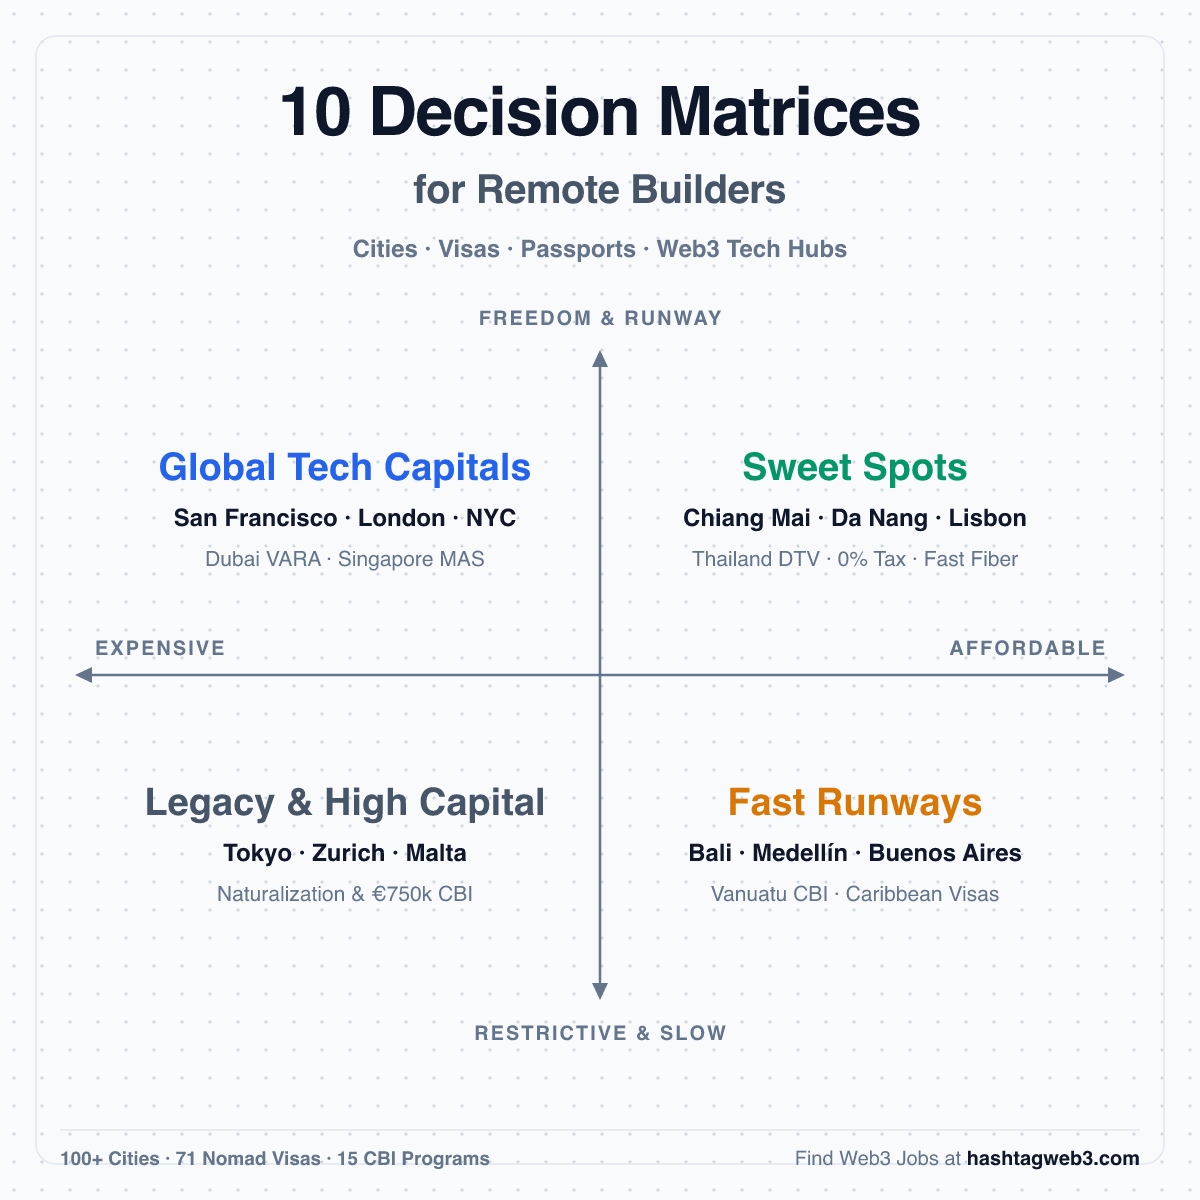
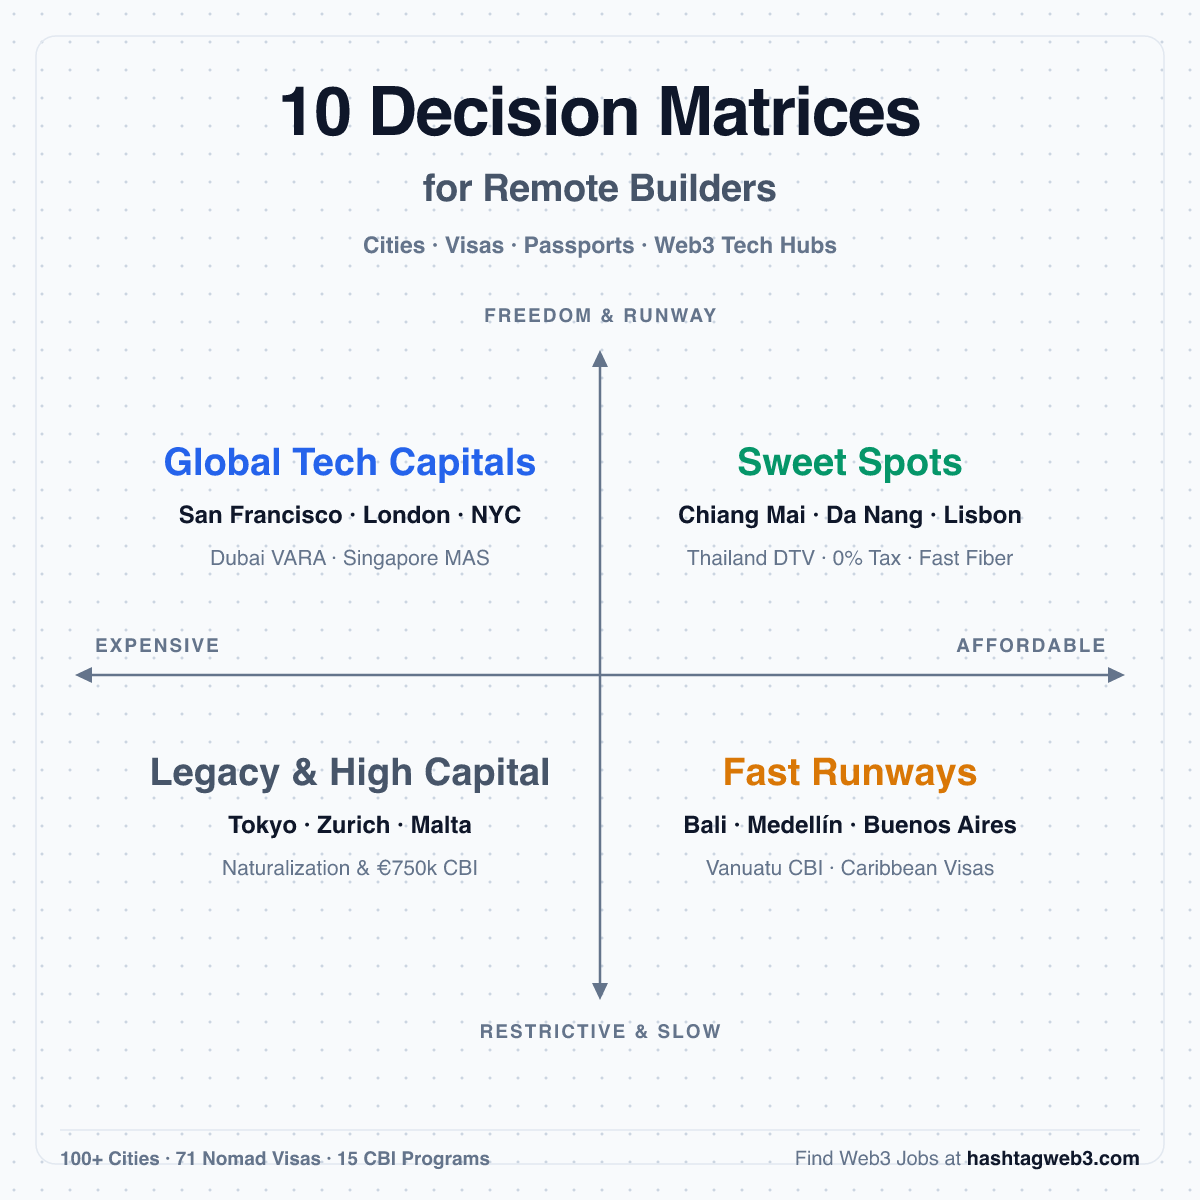
style(social): refine spacing symmetry and padding across cover and outro cards

diff --git a/scripts/generate-thread-cover-outro.ts b/scripts/generate-thread-cover-outro.ts
@@ -9,7 +9,7 @@ const ROOT = path.resolve(__dirname, '..');
 const OUT_DIR = path.join(ROOT, 'public/images/social');
 const ARTIFACT_DIR = '/Users/vedang/.gemini/antigravity/brain/d8e0523d-8c6b-4440-8112-6fd00000dadf';
 
-// 1. Minimal Cover with Big, Highly-Legible Typography
+// 1. Minimal Cover with Perfectly Balanced Spacing & Big Typography
 function buildCoverSvg(): string {
   return `<svg width="1200" height="1200" viewBox="0 0 1200 1200" xmlns="http://www.w3.org/2000/svg" style="background:#F8FAFC; font-family:system-ui,-apple-system,'SF Pro Display','Segoe UI',Roboto,Helvetica,sans-serif;">
   <defs>
@@ -23,14 +23,14 @@ function buildCoverSvg(): string {
   <rect width="1200" height="1200" fill="url(#dotGridCover)" />
   <rect x="36" y="36" width="1128" height="1128" rx="20" fill="none" stroke="#E2E8F0" stroke-width="1.5" />
 
-  <!-- Title Section (Big, Bold, Legible) -->
+  <!-- Title Section (Balanced Leading) -->
   <g transform="translate(600, 135)">
     <text x="0" y="0" text-anchor="middle" font-size="68" font-weight="900" fill="#0F172A" letter-spacing="-1.5px">10 Decision Matrices</text>
-    <text x="0" y="68" text-anchor="middle" font-size="40" font-weight="800" fill="#475569" letter-spacing="-0.5px">for Remote Builders</text>
-    <text x="0" y="122" text-anchor="middle" font-size="24" font-weight="600" fill="#64748B">Cities · Visas · Passports · Web3 Tech Hubs</text>
+    <text x="0" y="66" text-anchor="middle" font-size="38" font-weight="800" fill="#475569" letter-spacing="-0.5px">for Remote Builders</text>
+    <text x="0" y="118" text-anchor="middle" font-size="23" font-weight="600" fill="#64748B">Cities · Visas · Passports · Web3 Tech Hubs</text>
   </g>
 
-  <!-- 2x2 Crosshairs -->
+  <!-- 2x2 Crosshairs (Balanced Geometry) -->
   <line x1="90" y1="675" x2="1110" y2="675" stroke="#64748B" stroke-width="2.5" />
   <polygon points="75,675 92,667 92,683" fill="#64748B" />
   <polygon points="1125,675 1108,667 1108,683" fill="#64748B" />
@@ -39,49 +39,49 @@ function buildCoverSvg(): string {
   <polygon points="600,350 592,367 608,367" fill="#64748B" />
   <polygon points="600,1000 592,983 608,983" fill="#64748B" />
 
-  <!-- Axis Direction Labels (Bigger & Bolder) -->
-  <text x="600" y="325" text-anchor="middle" font-size="20" font-weight="800" fill="#64748B" letter-spacing="2px">FREEDOM &amp; RUNWAY</text>
-  <text x="600" y="1040" text-anchor="middle" font-size="20" font-weight="800" fill="#64748B" letter-spacing="2px">RESTRICTIVE &amp; SLOW</text>
-  <text x="95" y="655" text-anchor="start" font-size="20" font-weight="800" fill="#64748B" letter-spacing="2px">EXPENSIVE</text>
-  <text x="1105" y="655" text-anchor="end" font-size="20" font-weight="800" fill="#64748B" letter-spacing="2px">AFFORDABLE</text>
+  <!-- Axis Direction Labels (Spaced from arrows and borders) -->
+  <text x="600" y="322" text-anchor="middle" font-size="19" font-weight="800" fill="#64748B" letter-spacing="2px">FREEDOM &amp; RUNWAY</text>
+  <text x="600" y="1038" text-anchor="middle" font-size="19" font-weight="800" fill="#64748B" letter-spacing="2px">RESTRICTIVE &amp; SLOW</text>
+  <text x="95" y="652" text-anchor="start" font-size="19" font-weight="800" fill="#64748B" letter-spacing="2px">EXPENSIVE</text>
+  <text x="1105" y="652" text-anchor="end" font-size="19" font-weight="800" fill="#64748B" letter-spacing="2px">AFFORDABLE</text>
 
-  <!-- 4 Quadrants (Large, High-Contrast Typography) -->
-  <!-- Top Right -->
-  <g transform="translate(855, 480)">
+  <!-- 4 Quadrants (Vertically and Horizontally Symmetrical) -->
+  <!-- Top Right (Sweet Spots) -->
+  <g transform="translate(850, 475)">
     <text x="0" y="0" text-anchor="middle" font-size="38" font-weight="900" fill="#059669">Sweet Spots</text>
-    <text x="0" y="46" text-anchor="middle" font-size="24" font-weight="700" fill="#0F172A">Chiang Mai · Da Nang · Lisbon</text>
-    <text x="0" y="86" text-anchor="middle" font-size="21" font-weight="500" fill="#64748B">Thailand DTV · 0% Tax · Fast Fiber</text>
+    <text x="0" y="48" text-anchor="middle" font-size="24" font-weight="700" fill="#0F172A">Chiang Mai · Da Nang · Lisbon</text>
+    <text x="0" y="90" text-anchor="middle" font-size="21" font-weight="500" fill="#64748B">Thailand DTV · 0% Tax · Fast Fiber</text>
   </g>
 
-  <!-- Top Left -->
-  <g transform="translate(345, 480)">
+  <!-- Top Left (Global Tech Capitals) -->
+  <g transform="translate(350, 475)">
     <text x="0" y="0" text-anchor="middle" font-size="38" font-weight="900" fill="#2563EB">Global Tech Capitals</text>
-    <text x="0" y="46" text-anchor="middle" font-size="24" font-weight="700" fill="#0F172A">San Francisco · London · NYC</text>
-    <text x="0" y="86" text-anchor="middle" font-size="21" font-weight="500" fill="#64748B">Dubai VARA · Singapore MAS</text>
+    <text x="0" y="48" text-anchor="middle" font-size="24" font-weight="700" fill="#0F172A">San Francisco · London · NYC</text>
+    <text x="0" y="90" text-anchor="middle" font-size="21" font-weight="500" fill="#64748B">Dubai VARA · Singapore MAS</text>
   </g>
 
-  <!-- Bottom Right -->
-  <g transform="translate(855, 815)">
+  <!-- Bottom Right (Fast Runways) -->
+  <g transform="translate(850, 785)">
     <text x="0" y="0" text-anchor="middle" font-size="38" font-weight="900" fill="#D97706">Fast Runways</text>
-    <text x="0" y="46" text-anchor="middle" font-size="24" font-weight="700" fill="#0F172A">Bali · Medellín · Buenos Aires</text>
-    <text x="0" y="86" text-anchor="middle" font-size="21" font-weight="500" fill="#64748B">Vanuatu CBI · Caribbean Visas</text>
+    <text x="0" y="48" text-anchor="middle" font-size="24" font-weight="700" fill="#0F172A">Bali · Medellín · Buenos Aires</text>
+    <text x="0" y="90" text-anchor="middle" font-size="21" font-weight="500" fill="#64748B">Vanuatu CBI · Caribbean Visas</text>
   </g>
 
-  <!-- Bottom Left -->
-  <g transform="translate(345, 815)">
+  <!-- Bottom Left (Legacy & High Capital) -->
+  <g transform="translate(350, 785)">
     <text x="0" y="0" text-anchor="middle" font-size="38" font-weight="900" fill="#475569">Legacy &amp; High Capital</text>
-    <text x="0" y="46" text-anchor="middle" font-size="24" font-weight="700" fill="#0F172A">Tokyo · Zurich · Malta</text>
-    <text x="0" y="86" text-anchor="middle" font-size="21" font-weight="500" fill="#64748B">Naturalization &amp; €750k CBI</text>
+    <text x="0" y="48" text-anchor="middle" font-size="24" font-weight="700" fill="#0F172A">Tokyo · Zurich · Malta</text>
+    <text x="0" y="90" text-anchor="middle" font-size="21" font-weight="500" fill="#64748B">Naturalization &amp; €750k CBI</text>
   </g>
 
-  <!-- Footer (Bigger) -->
+  <!-- Footer (Even Padding) -->
   <line x1="60" y1="1130" x2="1140" y2="1130" stroke="#E2E8F0" stroke-width="1.5" />
   <text x="60" y="1165" font-size="19" font-weight="600" fill="#64748B">100+ Cities · 71 Nomad Visas · 15 CBI Programs</text>
   <text x="1140" y="1165" text-anchor="end" font-size="20"><tspan fill="#64748B" font-weight="500">Find Web3 Jobs at </tspan><tspan fill="#0F172A" font-weight="800">hashtagweb3.com</tspan></text>
 </svg>`;
 }
 
-// 2. Minimal Outro with Big, Bold Typography
+// 2. Minimal Outro with Symmetrical Vertical Padding & Refined Typography
 function buildOutroSvg(): string {
   return `<svg width="1200" height="1200" viewBox="0 0 1200 1200" xmlns="http://www.w3.org/2000/svg" style="background:#F8FAFC; font-family:system-ui,-apple-system,'SF Pro Display','Segoe UI',Roboto,Helvetica,sans-serif;">
   <defs>
@@ -94,44 +94,44 @@ function buildOutroSvg(): string {
   <rect width="1200" height="1200" fill="url(#dotGridOutro)" />
   <rect x="36" y="36" width="1128" height="1128" rx="20" fill="none" stroke="#E2E8F0" stroke-width="1.5" />
 
-  <!-- Big Clean Title -->
-  <g transform="translate(90, 160)">
+  <!-- Big Clean Title (100px top clearance to Row 1) -->
+  <g transform="translate(90, 155)">
     <text x="0" y="0" font-size="70" font-weight="900" fill="#0F172A" letter-spacing="-1.5px">Explore the Data</text>
     <text x="0" y="58" font-size="28" font-weight="500" fill="#64748B">All 10 interactive comparison tools and directories are live:</text>
   </g>
 
-  <!-- 4 Clean Stacked Rows (Evenly spaced across the canvas) -->
-  <g transform="translate(90, 335)">
+  <!-- 4 Clean Stacked Rows (Even 175px spacing, 100px bottom clearance to footer) -->
+  <g transform="translate(90, 325)">
     <!-- Row 1: Cities -->
     <g transform="translate(0, 0)">
-      <text x="0" y="44" font-size="48" font-weight="900" fill="#0F172A">Cities</text>
-      <text x="0" y="88" font-size="26" font-weight="500" fill="#64748B">100+ cities ranked by speed, cost &amp; safety</text>
-      <text x="1020" y="58" text-anchor="end" font-size="32" font-weight="800" fill="#2563EB">hashtagweb3.com/nomads</text>
-      <line x1="0" y1="130" x2="1020" y2="130" stroke="#E2E8F0" stroke-width="1.5" />
+      <text x="0" y="44" font-size="46" font-weight="900" fill="#0F172A">Cities</text>
+      <text x="0" y="90" font-size="25" font-weight="500" fill="#64748B">100+ cities ranked by speed, cost &amp; safety</text>
+      <text x="1020" y="66" text-anchor="end" font-size="32" font-weight="800" fill="#2563EB">hashtagweb3.com/nomads</text>
+      <line x1="0" y1="135" x2="1020" y2="135" stroke="#E2E8F0" stroke-width="1.5" />
     </g>
 
     <!-- Row 2: Visas -->
-    <g transform="translate(0, 185)">
-      <text x="0" y="44" font-size="48" font-weight="900" fill="#0F172A">Visas</text>
-      <text x="0" y="88" font-size="26" font-weight="500" fill="#64748B">71 nomad visas compared by tax &amp; income bar</text>
-      <text x="1020" y="58" text-anchor="end" font-size="32" font-weight="800" fill="#2563EB">hashtagweb3.com/visas</text>
-      <line x1="0" y1="130" x2="1020" y2="130" stroke="#E2E8F0" stroke-width="1.5" />
+    <g transform="translate(0, 175)">
+      <text x="0" y="44" font-size="46" font-weight="900" fill="#0F172A">Visas</text>
+      <text x="0" y="90" font-size="25" font-weight="500" fill="#64748B">71 nomad visas compared by tax &amp; income bar</text>
+      <text x="1020" y="66" text-anchor="end" font-size="32" font-weight="800" fill="#2563EB">hashtagweb3.com/visas</text>
+      <line x1="0" y1="135" x2="1020" y2="135" stroke="#E2E8F0" stroke-width="1.5" />
     </g>
 
     <!-- Row 3: Passports -->
-    <g transform="translate(0, 370)">
-      <text x="0" y="44" font-size="48" font-weight="900" fill="#0F172A">Passports</text>
-      <text x="0" y="88" font-size="26" font-weight="500" fill="#64748B">Statutory CBI &amp; Golden Visas by capital &amp; speed</text>
-      <text x="1020" y="58" text-anchor="end" font-size="32" font-weight="800" fill="#2563EB">hashtagweb3.com/citizenship</text>
-      <line x1="0" y1="130" x2="1020" y2="130" stroke="#E2E8F0" stroke-width="1.5" />
+    <g transform="translate(0, 350)">
+      <text x="0" y="44" font-size="46" font-weight="900" fill="#0F172A">Passports</text>
+      <text x="0" y="90" font-size="25" font-weight="500" fill="#64748B">Statutory CBI &amp; Golden Visas by capital &amp; speed</text>
+      <text x="1020" y="66" text-anchor="end" font-size="32" font-weight="800" fill="#2563EB">hashtagweb3.com/citizenship</text>
+      <line x1="0" y1="135" x2="1020" y2="135" stroke="#E2E8F0" stroke-width="1.5" />
     </g>
 
     <!-- Row 4: Web3 Jobs -->
-    <g transform="translate(0, 555)">
-      <text x="0" y="44" font-size="48" font-weight="900" fill="#0F172A">Web3 Jobs</text>
-      <text x="0" y="88" font-size="26" font-weight="500" fill="#64748B">Verified remote engineering &amp; builder roles</text>
-      <text x="1020" y="58" text-anchor="end" font-size="32" font-weight="800" fill="#2563EB">hashtagweb3.com/jobs</text>
-      <line x1="0" y1="130" x2="1020" y2="130" stroke="#E2E8F0" stroke-width="1.5" />
+    <g transform="translate(0, 525)">
+      <text x="0" y="44" font-size="46" font-weight="900" fill="#0F172A">Web3 Jobs</text>
+      <text x="0" y="90" font-size="25" font-weight="500" fill="#64748B">Verified remote engineering &amp; builder roles</text>
+      <text x="1020" y="66" text-anchor="end" font-size="32" font-weight="800" fill="#2563EB">hashtagweb3.com/jobs</text>
+      <line x1="0" y1="135" x2="1020" y2="135" stroke="#E2E8F0" stroke-width="1.5" />
     </g>
   </g>
 
@@ -143,7 +143,7 @@ function buildOutroSvg(): string {
 }
 
 async function main() {
-  console.log('Rendering clean, minimal thread cover and outro graphics with larger typography...');
+  console.log('Rendering clean, minimal thread cover and outro graphics with proper spacing...');
   
   // 1. Cover
   const coverSvg = buildCoverSvg();
@@ -175,7 +175,7 @@ async function main() {
   fs.writeFileSync(path.join(ARTIFACT_DIR, 'thread-outro-resources.svg'), outroSvg);
   fs.writeFileSync(path.join(ARTIFACT_DIR, 'thread-outro-resources.png'), outroPng);
 
-  console.log('Finished rendering larger typography thread cover and outro visuals successfully!');
+  console.log('Finished rendering perfectly spaced thread cover and outro visuals successfully!');
 }
 
 main().catch(err => {
